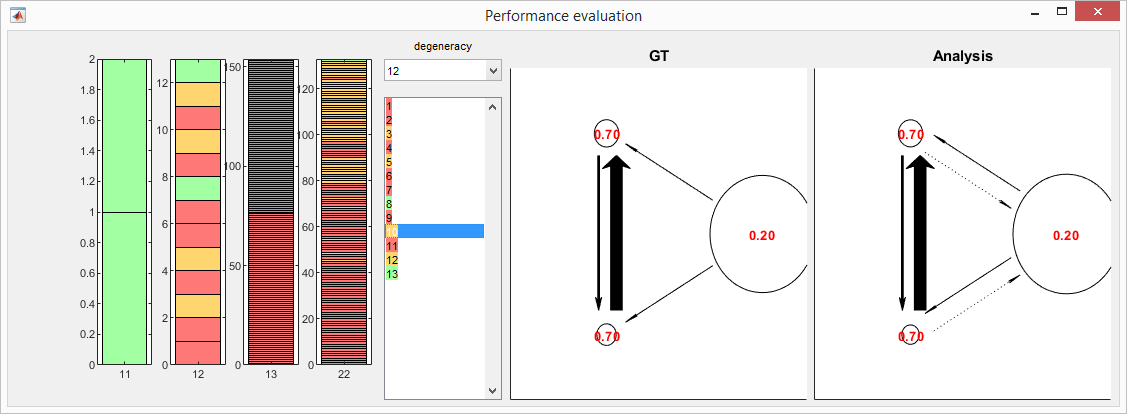
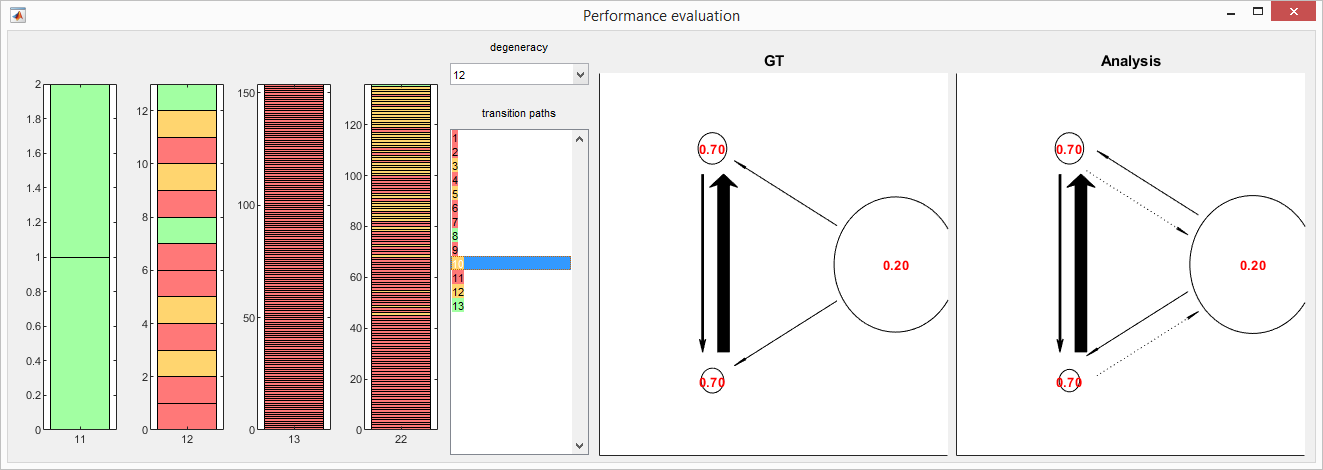
improve usability and update screenshot

diff --git a/script/degenTest_analyzeResults.m b/script/degenTest_analyzeResults.m
@@ -251,15 +251,18 @@ mgttl = 20;
 hpop = 22;
 htxt = 14;
 wFig = 800;
-str_txt = 'degeneracy';
+str0 = 'degeneracy';
+str1 = 'transition paths';
 str_lst = {'Transition paths'};
 
 % calculate dimensions
+D = size(degen,1);
 hFig = round(wFig/3);
-waxes1 = round(wFig/3);
-wlst = (wFig-waxes1-4*mg)/6;
-waxes2 = ((wFig-waxes1-4*mg)-wlst)/2;
-hlst = (hFig-2*mg)-htxt-hpop-mg;
+wleft = round(wFig/3);
+waxes1 = (wleft-mg)/D;
+wlst = (wFig-wleft-4*mg)/6;
+waxes2 = ((wFig-wleft-4*mg)-wlst)/2;
+hlst = (hFig-2*mg)-2*htxt-hpop-mg;
 haxes = hFig-2*mg-mgttl;
 
 gd = struct();
@@ -270,20 +273,22 @@ h_fig = figure('units','pixels','position',[0,0,wFig,hFig],'name',...
 gd.figure_testDPH = h_fig;
 
 % left axes
-D = size(degen,1);
+x = mg;
+y = mg;
 for d = 1:D
-    gd.axes_perf(d) = subplot(1,3*D,d);
-    if d==1
-        shift = gd.axes_perf(d).Position(3);
-    end
-    gd.axes_perf(d).Position(1) = gd.axes_perf(d).Position(1)-shift;
+    gd.axes_perf(d) = axes('parent',h_fig,'units','pixels','position',...
+        [x,y,waxes1,haxes]);
+    pos = getRealPosAxes([x,y,waxes1,haxes],...
+        get(gd.axes_perf(d),'tightinset'),'traces');
+    set(gd.axes_perf(d),'position',pos);
+    x = x+waxes1;
 end
 
 % popup menu
-x = waxes1 + mg;
+x = wleft + mg;
 y = hFig-mg-htxt;
 gd.text_degeneracy = uicontrol('style','text','parent',h_fig,'units',...
-    'pixels','position',[x,y,wlst,htxt],'string',str_txt);
+    'pixels','position',[x,y,wlst,htxt],'string',str0);
 
 y = y-hpop;
 str_pop = cell(1,D);
@@ -295,7 +300,11 @@ gd.popup_degeneracy = uicontrol('style','popup','parent',h_fig,'units',...
     {@degenTest_popup_degeneracy_Callback,h_fig});
 
 % list
-y = y-mg-hlst;
+y = y-mg-htxt;
+gd.text_transpath = uicontrol('style','text','parent',h_fig,'units',...
+    'pixels','position',[x,y,wlst,htxt],'string',str1);
+
+y = y-hlst;
 gd.listbox_paths = uicontrol('style','listbox','parent',h_fig,'units',...
     'pixels','position',[x,y,wlst,hlst],'string',str_lst,'min',0,'max',1,...
     'callback',{@degenTest_listbox_paths_Callback,h_fig});

diff --git a/script/degenTest_createPresetFiles.m b/script/degenTest_createPresetFiles.m
@@ -1,5 +1,5 @@
-function degenTest_createPresetFiles(Dmax,pname)
-% degenTest_createPresetFiles(Dmax,pname)
+function degenTest_createPresetFiles(Dmax,Jmax,pname)
+% degenTest_createPresetFiles(Dmax,Jmax,pname)
 %
 % Generate preset files used in paper for 2 states and a maximum degeneracy complexity `Dmax`
 % State lifetimes are evenly log-distributed
@@ -7,12 +7,14 @@ function degenTest_createPresetFiles(Dmax,pname)
 % Initial state probabilities are identical for each state.
 % Files are exported in folder `pname`
 %
+% Dmax: maximum number of degenerated level for one state value
+% Jmax: maximum total number of states (long to compute otherwise)
+% pname: dump directory
+%
 % example:
-% degenTest_createPresetFiles(4,'C:\Users\mimi\Documents\MyDataFolder\degenerated_test\testdata');
+% degenTest_createPresetFiles(3,4,'C:\Users\mimi\Documents\MyDataFolder\degenerated_test\testdata');
 
 % default
-Jmax0 = 4; % maximum number of states (long to compute otherwise)
-V = 2; % number of state values
 vals = [0.2,0.7]; % state values
 N = 250; % number of trajectories
 wmin = 0.1; % minimum random
@@ -22,7 +24,8 @@ if pname(end)~=filesep
 end
 
 % get all possible transition matrices
-Jmax = min([Dmax*V,Jmax0]);
+V = numel(vals);
+Jmax = min([Dmax*V,Jmax]);
 Jmin = V;
 trans_mat = cell(1,Jmax);
 for J = Jmin:Jmax
